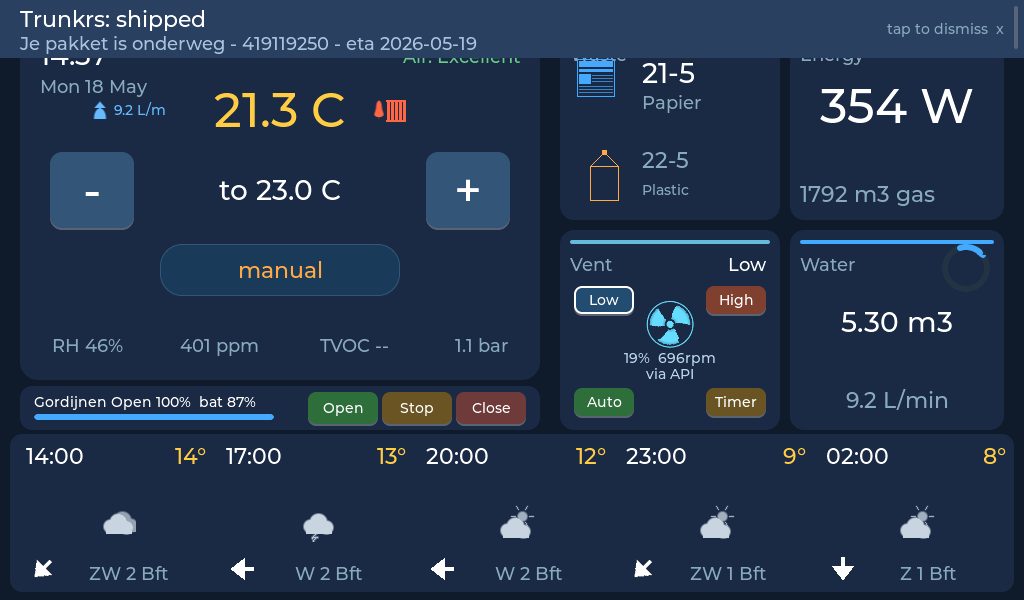
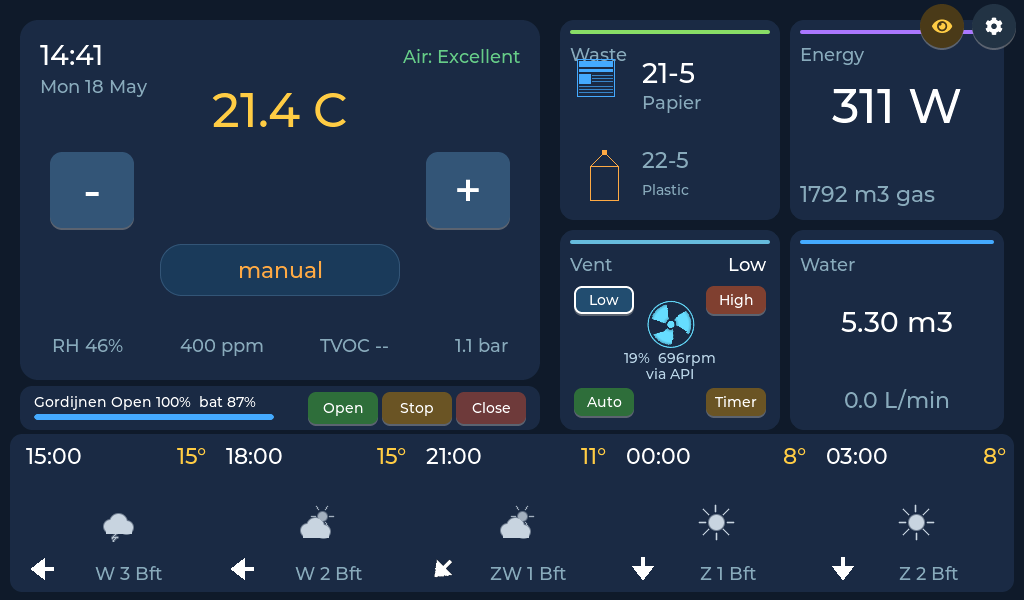
Weather settings: configurable city + Buienradar GeoNames id
The Weather modal previously only exposed the "show on dim" toggle and
the forecast-strip mode slider — the city itself could only be changed
by hand-editing /mnt/data/toonui.cfg, which is the root cause for the
"Iraq forecast" bug (user pasted KNMI station 6249 thinking buienradar
would accept it).

New rows:
  - "City:" plain text label, persisted as settings.weather_location
  - "Buienradar id:" numeric-only field, persisted as
    settings.weather_location_id (drives the API call)
  - Help text explaining where to find the id on buienradar.nl, plus a
    note that KNMI codes won't work because the endpoint takes
    GeoNames ids
  - "Apply" button — writes settings + shows a confirmation line

Also confirmed correct id for the user's install: <town> = 2751073
(lat 52.77 lon 5.11), and updated their device cfg accordingly.

Screenshots:
  - home.png refreshed: now reads "15° 15° 11° 8° 8°" — actual
    <town> forecast for the rest of the day.
  - settings-weather.png new: shows the Weather modal with all the
    fields prefilled.

diff --git a/lvgl_ui_recovered/src/screen_settings.c b/lvgl_ui_recovered/src/screen_settings.c
@@ -72,6 +72,28 @@ static void on_forecast_mode_change(lv_event_t * e) {
     settings.forecast_mode = v;
     lv_label_set_text(lbl_forecast_mode, forecast_mode_label(v));
 }
+
+/* Weather modal: free-text city label + GeoNames id, both persisted via
+ * the modal_close() save path. The id is what the API actually uses; the
+ * label is purely cosmetic for the Weather screen header. */
+static lv_obj_t * ta_wx_city = NULL;
+static lv_obj_t * ta_wx_id   = NULL;
+static lv_obj_t * lbl_wx_status = NULL;
+static void on_weather_apply(lv_event_t * e) {
+    (void)e;
+    if (ta_wx_city) snprintf(settings.weather_location,
+                             sizeof settings.weather_location,
+                             "%s", lv_textarea_get_text(ta_wx_city));
+    if (ta_wx_id) {
+        int id = atoi(lv_textarea_get_text(ta_wx_id));
+        if (id > 0) settings.weather_location_id = id;
+    }
+    settings_save();
+    if (lbl_wx_status)
+        lv_label_set_text_fmt(lbl_wx_status,
+            "Saved. %s = %d", settings.weather_location,
+            settings.weather_location_id);
+}
 static void on_dim_waste_change(lv_event_t * e) {
     settings.show_dim_waste = lv_obj_has_state(lv_event_get_target(e), LV_STATE_CHECKED) ? 1 : 0;
 }
@@ -374,7 +396,7 @@ static void open_display_modal(lv_event_t * e) {
 
 static void open_weather_modal(lv_event_t * e) {
     (void)e;
-    lv_obj_t * p = modal_open("Weather", 310);
+    lv_obj_t * p = modal_open("Weather", 560);
     int y = 70;
 
     lv_obj_t * r = panel_row(p, y, "Show weather on dim screen", NULL);
@@ -388,6 +410,62 @@ static void open_weather_modal(lv_event_t * e) {
                       forecast_mode_label(settings.forecast_mode));
     sl_forecast_mode = row_slider(r, 0, 2, settings.forecast_mode,
                                   on_forecast_mode_change);
+    y += 90;
+
+    /* City name (cosmetic) + Buienradar GeoNames id (used by the API). */
+    lv_obj_t * lbl_city = lv_label_create(p);
+    lv_obj_set_style_text_color(lbl_city, lv_color_hex(0xffffff), 0);
+    lv_obj_set_style_text_font(lbl_city, &lv_font_montserrat_22, 0);
+    lv_label_set_text(lbl_city, "City:");
+    lv_obj_align(lbl_city, LV_ALIGN_TOP_LEFT, 4, y);
+    ta_wx_city = lv_textarea_create(p);
+    lv_obj_set_size(ta_wx_city, 380, 44);
+    lv_obj_align(ta_wx_city, LV_ALIGN_TOP_LEFT, 240, y - 4);
+    lv_textarea_set_one_line(ta_wx_city, true);
+    lv_textarea_set_text(ta_wx_city, settings.weather_location);
+    y += 60;
+
+    lv_obj_t * lbl_id = lv_label_create(p);
+    lv_obj_set_style_text_color(lbl_id, lv_color_hex(0xffffff), 0);
+    lv_obj_set_style_text_font(lbl_id, &lv_font_montserrat_22, 0);
+    lv_label_set_text(lbl_id, "Buienradar id:");
+    lv_obj_align(lbl_id, LV_ALIGN_TOP_LEFT, 4, y);
+    ta_wx_id = lv_textarea_create(p);
+    lv_obj_set_size(ta_wx_id, 380, 44);
+    lv_obj_align(ta_wx_id, LV_ALIGN_TOP_LEFT, 240, y - 4);
+    lv_textarea_set_one_line(ta_wx_id, true);
+    lv_textarea_set_accepted_chars(ta_wx_id, "0123456789");
+    char id_str[16]; snprintf(id_str, sizeof id_str, "%d",
+                              settings.weather_location_id);
+    lv_textarea_set_text(ta_wx_id, id_str);
+    y += 50;
+
+    /* Hint — where to find the id. */
+    lv_obj_t * hint = lv_label_create(p);
+    lv_obj_set_style_text_color(hint, lv_color_hex(0x88aabb), 0);
+    lv_obj_set_style_text_font(hint, &lv_font_montserrat_14, 0);
+    lv_label_set_text(hint,
+        "Find your city's id in the URL on buienradar.nl/weer/<city>/nl/<ID>\n"
+        "(e.g. Medemblik = 2751073, De Bilt = 2757783). Plain KNMI codes\n"
+        "won't work — these are GeoNames ids.");
+    lv_obj_align(hint, LV_ALIGN_TOP_LEFT, 4, y);
+    y += 70;
+
+    lv_obj_t * btn = lv_btn_create(p);
+    lv_obj_set_size(btn, 200, 50);
+    lv_obj_align(btn, LV_ALIGN_TOP_LEFT, 4, y);
+    lv_obj_set_style_bg_color(btn, lv_color_hex(0x3a6090), 0);
+    lv_obj_add_event_cb(btn, on_weather_apply, LV_EVENT_CLICKED, NULL);
+    lv_obj_t * bl = lv_label_create(btn);
+    lv_label_set_text(bl, "Apply");
+    lv_obj_set_style_text_color(bl, lv_color_hex(0xffffff), 0);
+    lv_obj_center(bl);
+
+    lbl_wx_status = lv_label_create(p);
+    lv_obj_set_style_text_color(lbl_wx_status, lv_color_hex(0x9fc4e6), 0);
+    lv_obj_set_style_text_font(lbl_wx_status, &lv_font_montserrat_18, 0);
+    lv_label_set_text(lbl_wx_status, "");
+    lv_obj_align(lbl_wx_status, LV_ALIGN_TOP_LEFT, 220, y + 12);
 }
 
 static void open_waste_modal(lv_event_t * e) {